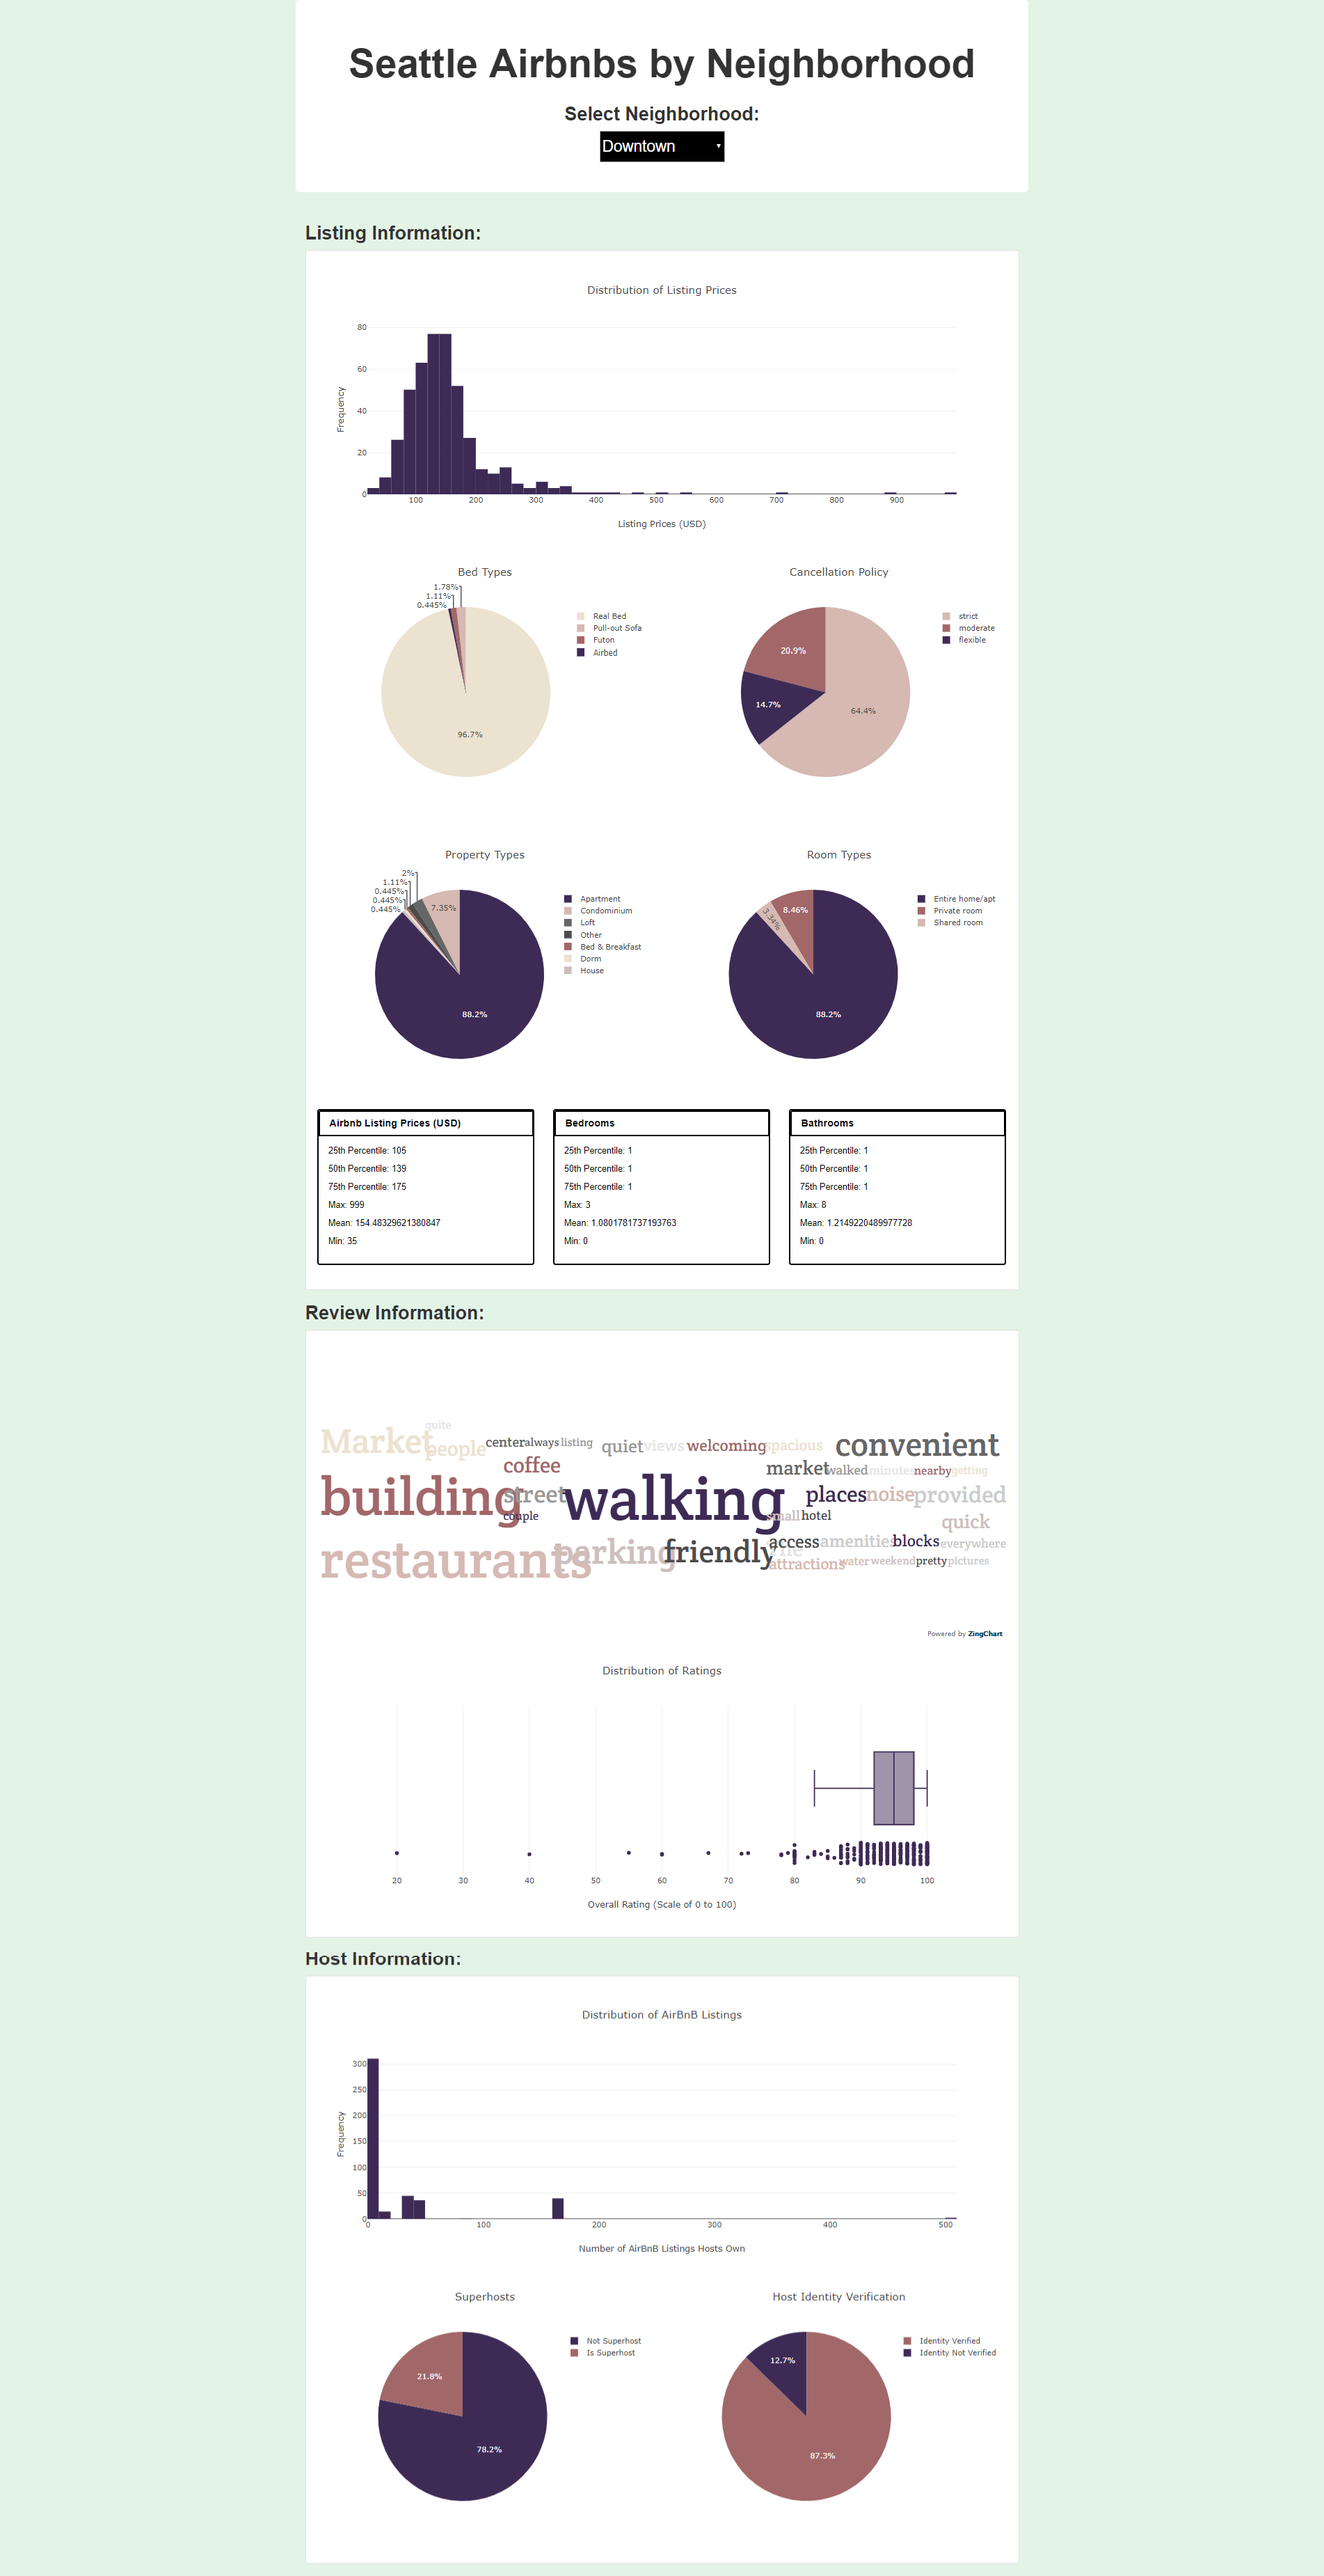
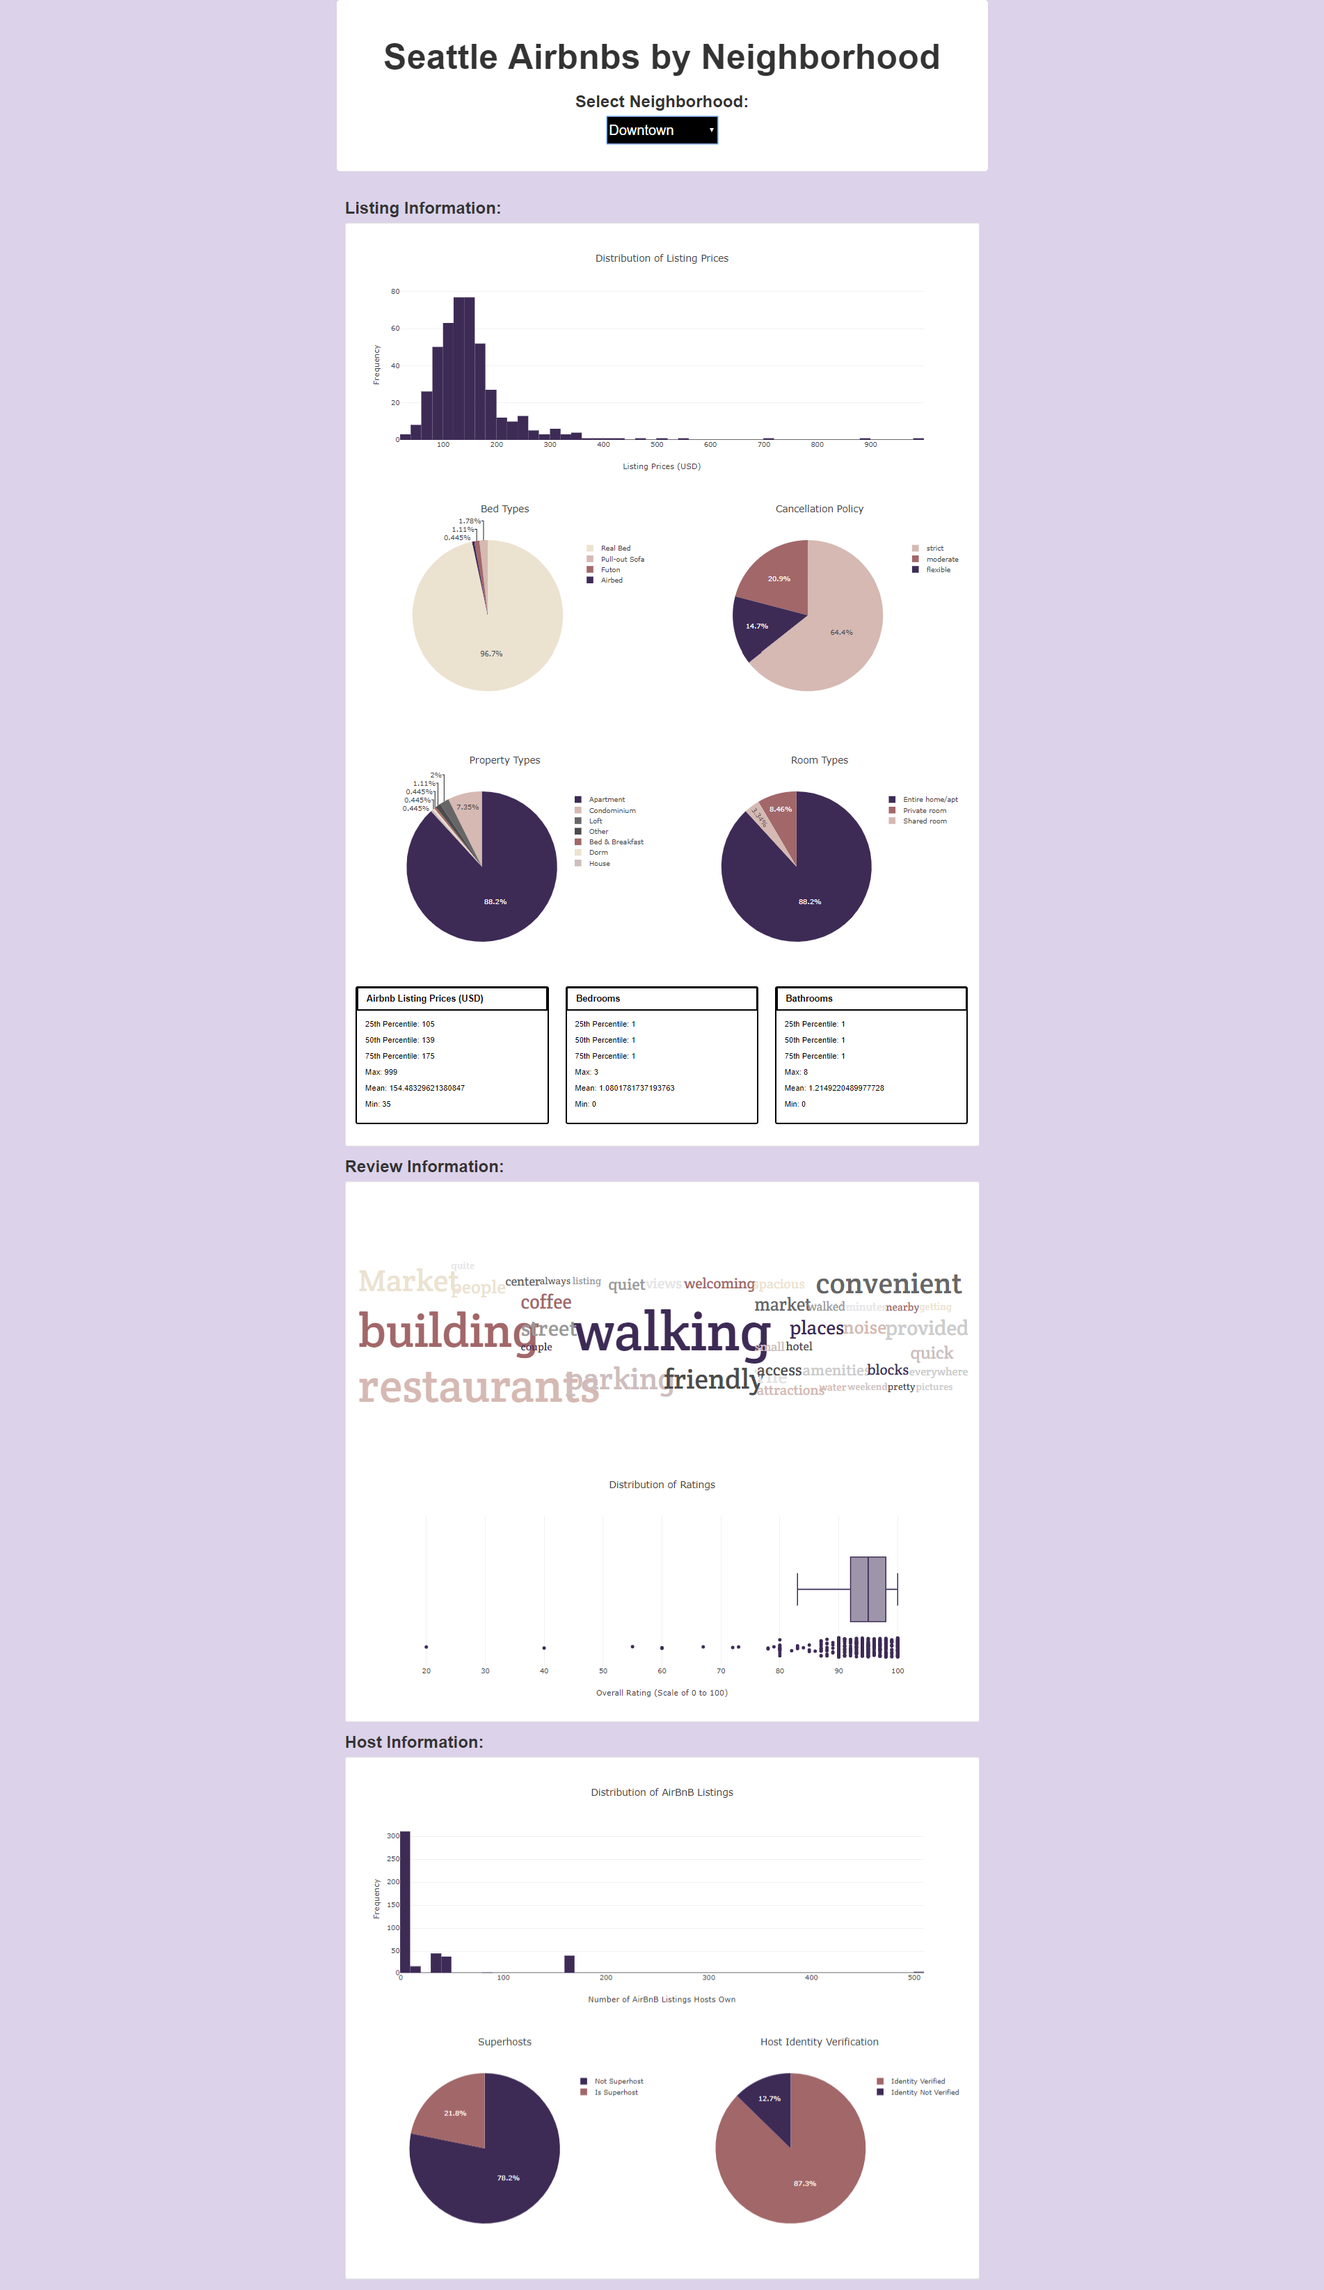
update images

diff --git a/static/js/app.js b/static/js/app.js
@@ -1,6 +1,7 @@
 var neighborhood = "Downtown";
 var chart_color = "#3D2B56";
 var pie_colors = ['#3D2B56','#A26769', '#D5B9B2', '#ECE2D0', '#CEBEBE', 'rgb(102, 102, 102)','rgb(76, 76, 76)','rgb(153, 153, 153)','rgb(204, 204, 204)','rgb(229, 229, 229)'];
+var bg_color ="#dcd2e9";
 // var neighborhood = "Downtown"
 function priceSummaryData(neighborhood) {
 
@@ -427,6 +428,7 @@ function buildWordCloud(neighborhood) {
 }
 
 
+
 function init() {
   
 //     // Grab a reference to the dropdown select element
@@ -440,7 +442,6 @@ d3.json("/neighborhoods").then((neighborhoods) => {
       .text(neighborhood)
       .property("value", neighborhood);
   });
-
 
     // Use the first sample from the list to build the initial plots
     const firstNeighborhood = neighborhoods[0];
@@ -460,6 +461,7 @@ d3.json("/neighborhoods").then((neighborhoods) => {
     buildWordCloud(firstNeighborhood);
     neighborhood = firstNeighborhood;
     set_chart_color();
+    setBackgroundColor();
   });
 }
 
@@ -483,26 +485,36 @@ function optionChanged(newNeighborhood) {
     buildWordCloud(newNeighborhood);
     neighborhood = newNeighborhood;
     set_chart_color();
+    setBackgroundColor();
   }
 
 function set_chart_color() {
   if (neighborhood == "Downtown") {
     chart_color = "#3D2B56";
     pie_colors = ['#3D2B56','#A26769', '#D5B9B2', '#ECE2D0', '#CEBEBE', 'rgb(102, 102, 102)','rgb(76, 76, 76)','rgb(153, 153, 153)','rgb(204, 204, 204)','rgb(229, 229, 229)'];
+    bg_color ="#dcd2e9";
   }
   else if (neighborhood == "Beacon Hill") {
     chart_color = "#F26419";
     pie_colors = ['#F26419','#FFB800', '#2F4858', '#86BBD8', '#33658A', 'rgb(102, 102, 102)','rgb(76, 76, 76)','rgb(153, 153, 153)','rgb(204, 204, 204)','rgb(229, 229, 229)'];
+    bg_color = "#fce0d1";
   }
   else if (neighborhood == "Central Area") {
     chart_color = "#6B8F71";
     pie_colors = ['#6B8F71','#9DBF9E', '#D0D6B5', '#F9B5AC', '#EE7674', 'rgb(102, 102, 102)','rgb(76, 76, 76)','rgb(153, 153, 153)','rgb(204, 204, 204)','rgb(229, 229, 229)'];
+    bg_color = "#dae4da";
   }
   else if (neighborhood == "Queen Anne") {
     chart_color = "#6F1A07";
     pie_colors = ['#6F1A07','#C32F27', '#D8572A', '#DB7C26', '#F7B538', 'rgb(102, 102, 102)','rgb(76, 76, 76)','rgb(153, 153, 153)','rgb(204, 204, 204)','rgb(229, 229, 229)'];
+    bg_color = "#fac2b5";
   }
 }
+
+function setBackgroundColor() {
+  document.body.style.backgroundColor = bg_color;
+};
+
 
 // Initialize the dashboard
 init();

diff --git a/static/css/style.css b/static/css/style.css
@@ -14,11 +14,11 @@ h3 {
   font-weight: bold;
 }
 
-body{
+/* body{
     /* background-color: #c7e8ce; */
     /* background-color: #eaf6ec; */
-    background-color: #e3f3e6;
-  }
+    /* background-color: #e3f3e6; */
+  /* } */
 
 .well{
     /* background-color: #eaf6ec; */
